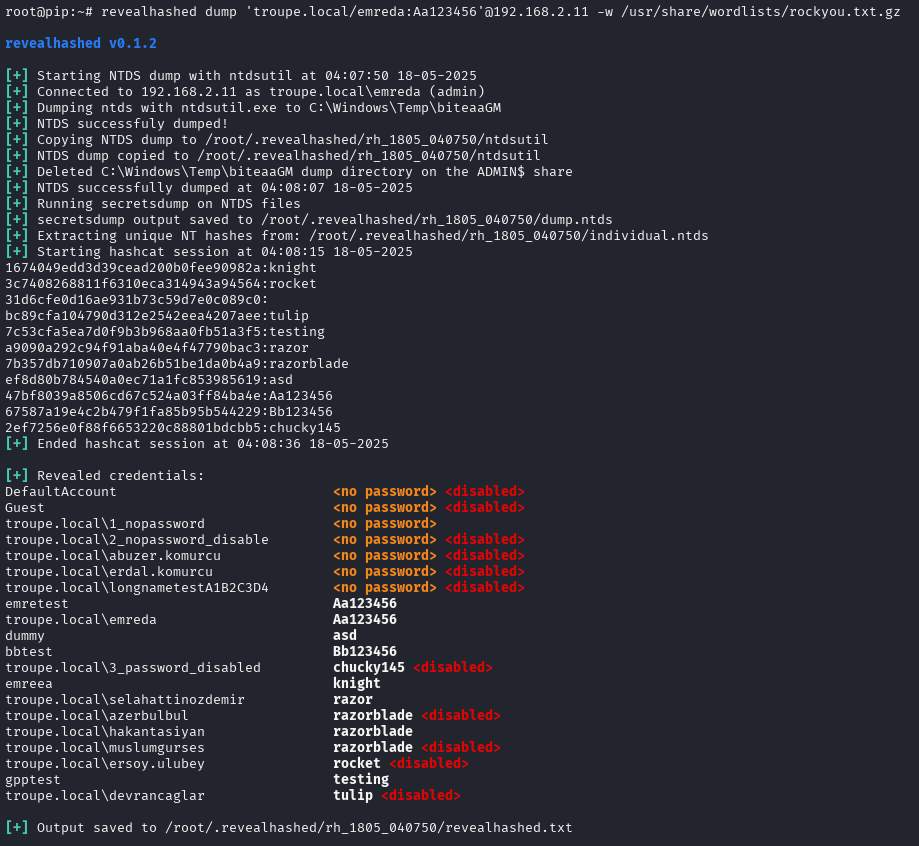
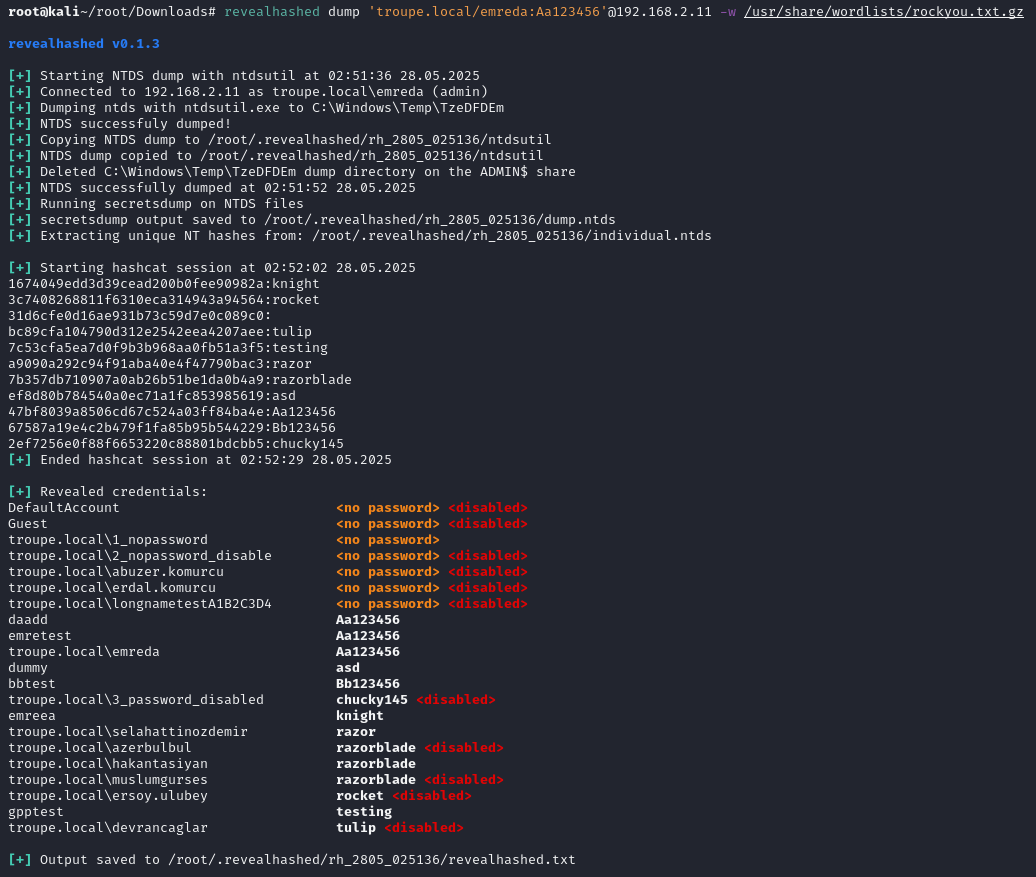
v0.1.3
added qol features:
-nd >>> no domain switch added
-csv  >>> output to csv switch added

small improvements, better output.

Changed region(s): [[0.0, 0.0, 1.0, 1.0]]

diff --git a/revealhashed/core.py b/revealhashed/core.py
@@ -6,6 +6,7 @@ import re
 import subprocess
 import shutil
 import sys
+import csv
 from collections import defaultdict
 from datetime import datetime
 from pathlib import Path
@@ -47,6 +48,8 @@ def parse_args():
     dump_parser.add_argument("-codec")
     dump_parser.add_argument("-w", "--wordlists", nargs="+", metavar="WORDLIST WORDLIST2", help="Wordlists to use with hashcat", required=True)
     dump_parser.add_argument("-e", "--enabled-only", action="store_true", help="Only show enabled accounts")
+    dump_parser.add_argument('-nd', '--no-domain', action='store_true', help="Don't display domain in usernames")
+    dump_parser.add_argument('-csv', action='store_true', help="Save output in CSV format")
     # do not include -outputdir
     
     # subparser: reveal
@@ -55,6 +58,8 @@ def parse_args():
     reveal_parser.add_argument("-nxc", action="store_true", help="Scan $HOME/.nxc/logs/ntds for .ntds files")
     reveal_parser.add_argument("-w", "--wordlists", nargs="+", metavar="WORDLIST WORDLIST2", help="Wordlists to use with hashcat", required=False)
     reveal_parser.add_argument("-e", "--enabled-only", action="store_true", help="Only show enabled accounts")
+    reveal_parser.add_argument('-nd', '--no-domain', action='store_true', help="Don't display domain in usernames")
+    reveal_parser.add_argument('-csv', action='store_true', help="Save output in CSV format")
 
     return parser
 
@@ -101,10 +106,10 @@ def extract_unique_hashes(ntds_path, output_path, full_output_path, write_full_o
         raise
 
 def run_hashcat(hashes_file, wordlists):
-    start = datetime.now().strftime("%H:%M:%S %d-%m-%Y")
-    print(f"{BOLD_GREEN}[+]{RESET} Starting hashcat session at {start}")
+    start = datetime.now().strftime("%H:%M:%S %d.%m.%Y")
+    print(f"\n{BOLD_GREEN}[+]{RESET} Starting hashcat session at {start}")
     subprocess.run(["hashcat", "-m1000", str(hashes_file), *wordlists, "--quiet"])
-    end = datetime.now().strftime("%H:%M:%S %d-%m-%Y")
+    end = datetime.now().strftime("%H:%M:%S %d.%m.%Y")
     print(f"{BOLD_GREEN}[+]{RESET} Ended hashcat session at {end}")
 
 def parse_potfile(potfile_path):
@@ -119,7 +124,7 @@ def parse_potfile(potfile_path):
                 cracked[hash_val] = password
     return cracked
 
-def reveal_credentials(individual_ntds_path, cracked_hashes, session_dir, enabled_only=False):
+def reveal_credentials(individual_ntds_path, cracked_hashes, session_dir, enabled_only=False, no_domain=False, to_csv=False):
     print(f"\n{BOLD_GREEN}[+]{RESET} Revealed credentials:")
     output_lines = []
 
@@ -151,25 +156,39 @@ def reveal_credentials(individual_ntds_path, cracked_hashes, session_dir, enable
                 password_key = plain
                 password_colored = f"{BOLD_WHITE}{plain}{RESET}"
 
-            disabled_str = f" {BOLD_RED}<disabled>{RESET}" if status == "disabled" else ""
-            line_out = f"{user:<40} {password_colored}{disabled_str}"
-            output_lines.append((password_key, user, line_out, status))
+            # strip domain if requested
+            display_user = user.split("\\", 1)[-1] if no_domain else user
 
-    # sort: <no password> first, then by password
+            disabled_str = f"{BOLD_RED}<disabled>{RESET}" if status == "disabled" else ""
+            line_out = f"{display_user:<40} {password_colored}{' ' + disabled_str if status == 'disabled' else ''}"
+            output_lines.append((password_key, display_user, line_out, status))
+
+    # sort: <no password> first, then alphabetically
     output_lines.sort(key=lambda x: (x[0] != "<no password>", x[0].lower(), x[1].lower()))
 
     # print and write
-    output_file = session_dir / "revealhashed.txt"
-    with open(output_file, "w") as outf:
-        for password_key, user, line_out, status in output_lines:
-            print(line_out)
-            plain = password_key
-            outf.write(f"{user:<40} {plain}{' <disabled>' if status == 'disabled' else ''}\n")
+    for _, _, line_out, _ in output_lines:
+        print(line_out)
+
+    if to_csv:
+        output_file = session_dir / "revealhashed.csv"
+        with open(output_file, "w", newline="") as outf:
+            writer = csv.writer(outf)
+            writer.writerow(["Username", "Password", "Status"])
+            for password_key, user, _, status in output_lines:
+                stat = "disabled" if status == "disabled" else ""
+                writer.writerow([user, password_key, stat])
+    else:
+        output_file = session_dir / "revealhashed.txt"
+        with open(output_file, "w") as outf:
+            for password_key, user, _, status in output_lines:
+                status_str = " <disabled>" if status == "disabled" else ""
+                outf.write(f"{user:<40} {password_key}{status_str}\n")
 
     print(f"\n{BOLD_GREEN}[+]{RESET} Output saved to {output_file}")
 
 def main():
-    print(f"\n{BOLD_BLUE}revealhashed v0.1.2{RESET}\n")
+    print(f"\n{BOLD_BLUE}revealhashed v0.1.3{RESET}\n")
 
     parser = parse_args()
     args = parser.parse_args()
@@ -189,8 +208,7 @@ def main():
         ntdsutil_dir = session_dir / "ntdsutil"
         ntdsutil_dir.mkdir(parents=True, exist_ok=True)
         args.outputdir = str(ntdsutil_dir)
-        
-        start = datetime.now().strftime("%H:%M:%S %d-%m-%Y")
+        start = datetime.now().strftime("%H:%M:%S %d.%m.%Y")
         print(f"{BOLD_GREEN}[+]{RESET} Starting NTDS dump with ntdsutil at {start}")
 
         try:
@@ -198,7 +216,8 @@ def main():
         except Exception as e:
             print(f"{BOLD_RED}[!]{RESET} NTDS dump failed: {e}")
             return
-        end = datetime.now().strftime("%H:%M:%S %d-%m-%Y")
+            
+        end = datetime.now().strftime("%H:%M:%S %d.%m.%Y")
         print(f"{BOLD_GREEN}[+]{RESET} NTDS successfully dumped at {end}")
 
         # run secretsdump in the same session folder
@@ -246,7 +265,7 @@ def main():
         if HASHCAT_POT.exists():
             shutil.copy(HASHCAT_POT, session_dir)
         cracked = parse_potfile(HASHCAT_POT)
-        reveal_credentials(ind_path, cracked, session_dir, enabled_only=args.enabled_only)
+        reveal_credentials(ind_path, cracked, session_dir, enabled_only=args.enabled_only, no_domain=args.no_domain, to_csv=args.csv)
 
     elif args.command == "reveal":
         if args.nxc:
@@ -263,7 +282,7 @@ def main():
 
             while True:
                 try:
-                    selection = int(input("\nSelect file by index: "))
+                    selection = int(input(f"\n{BOLD_GREEN}[>]{RESET} Select file by index: "))
                     print()
                     if 0 <= selection < len(ntds_files):
                         ntds_path = ntds_files[selection]
@@ -297,12 +316,12 @@ def main():
         if HASHCAT_POT.exists():
             shutil.copy(HASHCAT_POT, session_dir)
         cracked = parse_potfile(HASHCAT_POT)
-        reveal_credentials(ind_path, cracked, session_dir, enabled_only=args.enabled_only)
+        reveal_credentials(ind_path, cracked, session_dir, enabled_only=args.enabled_only, no_domain=args.no_domain, to_csv=args.csv)
 
 if __name__ == "__main__":
     main()
 
-# revealhashed v0.1.2
+# revealhashed v0.1.3
 # 
 # contact options
 # mail: https://blog.zurrak.com/contact.html

diff --git a/README.md b/README.md
@@ -1,6 +1,6 @@
 
-## about revealhashed-python v0.1.2
-revealhashed is a streamlined utility to correlate ntds usernames, nt hashes, and cracked passwords in one view while cutting out time-consuming manual tasks.
+## about revealhashed-python v0.1.3
+revealhashed is a streamlined utility to correlate ntds usernames, nt hashes, and cracked passwords in one view while cutting out time-consuming manual tasks.  
 
 ## how to install
 from pypi:  
@@ -15,7 +15,7 @@ grab revealhashed binary from [releases](https://github.com/crosscutsaw/revealha
 
 ## how to use
 ```
-revealhashed v0.1.2
+revealhashed v0.1.3
 
 usage: revealhashed [-h] [-r] {dump,reveal} ...
 
@@ -32,24 +32,52 @@ options:
 just execute `revealhashed -r` to remove contents of ~/.revealhashed
 
 ### revealhashed dump
-this command executes [zblurx's ntdsutil.py](https://github.com/zblurx/ntdsutil.py) to dump ntds safely then does classic revealhashed operations.
+```
+revealhashed v0.1.3
+
+usage: revealhashed dump [-h] [-debug] [-hashes HASHES] [-no-pass] [-k] [-aesKey AESKEY] [-dc-ip DC_IP] [-codec CODEC] -w WORDLIST WORDLIST2 [WORDLIST WORDLIST2 ...] [-e] [-nd] [-csv] target
+```
+
+this command executes [zblurx's ntdsutil.py](https://github.com/zblurx/ntdsutil.py) to dump ntds safely then does classic revealhashed operations.  
 
 -w (wordlist) switch is needed. one or more wordlists can be supplied.    
 -e (enabled-only) switch is not needed but suggested. it's self explanatory; only shows enabled users.  
+-nd (no-domain) switch hides domain names in usernames.  
+-csv (csv) switch is self explanatory; saves output to csv instead txt.  
 
 for example:  
-`revealhashed dump 'troupe.local/emreda:Aa123456'@192.168.2.11 -w wordlist1.txt wordlist2.txt -e`
+`revealhashed dump '<domain>/<username>:<password>'@<dc_ip> -w wordlist1.txt wordlist2.txt -e -nd -csv`
 
 ### revealhashed reveal
-this command wants to get supplied with ntds file by user then does classic revealhashed operations.  
-_ntds file should contain usernames and hashes. it should be not ntds.dit. example ntds dump can be obtained from repo_
+```
+revealhashed v0.1.3
 
--ntds or -nxc switch is needed. -ntds switch is for a file you own with hashes. -nxc switch is for scanning ~/.nxc/logs/ntds then selecting .ntds file.  
+usage: revealhashed reveal [-h] [-ntds NTDS] [-nxc] [-w WORDLIST WORDLIST2 [WORDLIST WORDLIST2 ...]] [-e] [-nd] [-csv]
+
+options:
+  -h, --help            show this help message and exit
+  -ntds NTDS            Path to .ntds file
+  -nxc                  Scan $HOME/.nxc/logs/ntds for .ntds files
+  -w WORDLIST WORDLIST2 [WORDLIST WORDLIST2 ...], --wordlists WORDLIST WORDLIST2 [WORDLIST WORDLIST2 ...]
+                        Wordlists to use with hashcat
+  -e, --enabled-only    Only show enabled accounts
+  -nd, --no-domain      Don't display domain in usernames
+  -csv                  Save output in CSV format
+  ```
+
+this command wants to get supplied with ntds file by user or netexec then does classic revealhashed operations.  
+
+_ntds file should contain usernames and hashes. it should be not ntds.dit. example ntds dump can be obtained from repo._  
+
+-ntds or -nxc switch is needed. -ntds switch is for a file you own with hashes. -nxc switch is for scanning ~/.nxc/logs/ntds directory then selecting .ntds file.  
 -w (wordlist) switch is needed. one or more wordlists can be supplied.  
 -e (enabled-only) switch is not needed but suggested. it's self explanatory; only shows enabled users.  
+-nd (no-domain) switch hides domain names in usernames.  
+-csv (csv) switch is self explanatory; saves output to csv instead txt.  
 
 for example:  
-`revealhashed reveal -ntds TROUPEDC_192.168.2.11_2025-05-12_123035.ntds -w wordlist1.txt -e`
+`revealhashed reveal -ntds <ntds_file>.ntds -w wordlist1.txt -e -nd -csv`
+`revealhashed reveal -nxc -w wordlist1.txt -e -nd -csv`
 
 ## example outputs
 ![](https://raw.githubusercontent.com/crosscutsaw/revealhashed-python/main/rp1.PNG)
@@ -57,3 +85,5 @@ for example:
 ![](https://raw.githubusercontent.com/crosscutsaw/revealhashed-python/main/rp2.PNG)
 
 ![](https://raw.githubusercontent.com/crosscutsaw/revealhashed-python/main/rp3.PNG)
+
+![](https://raw.githubusercontent.com/crosscutsaw/revealhashed-python/main/rp4.PNG)
